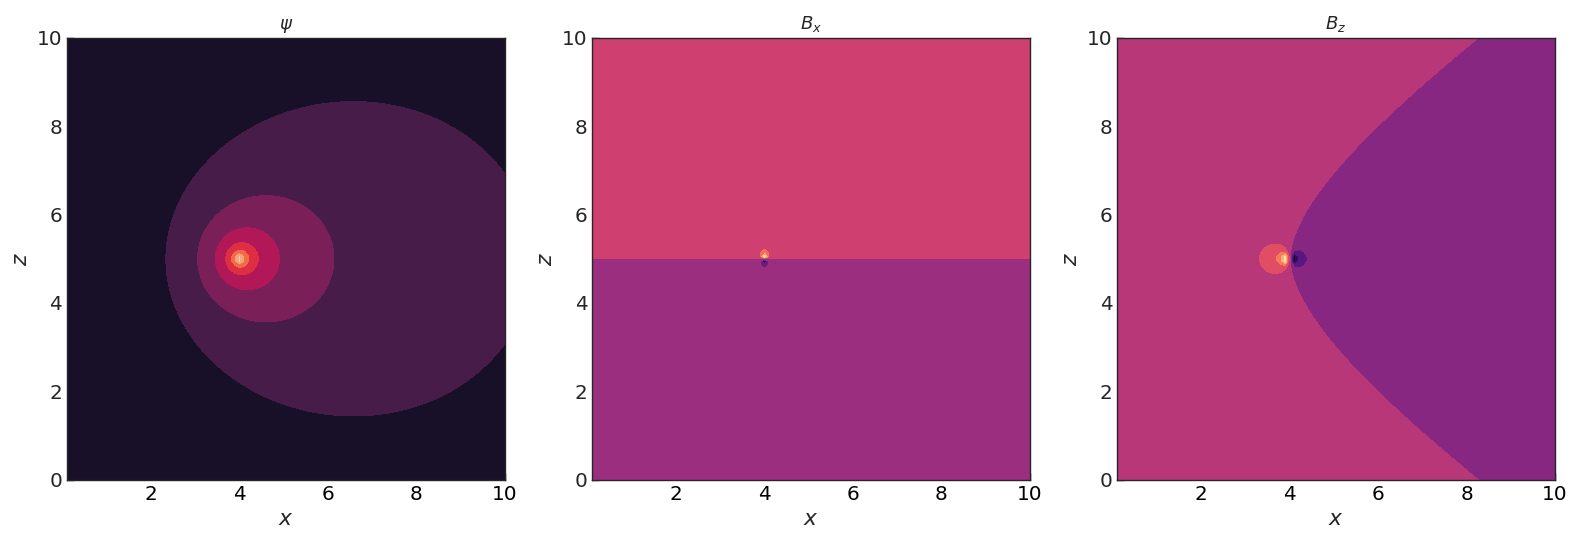
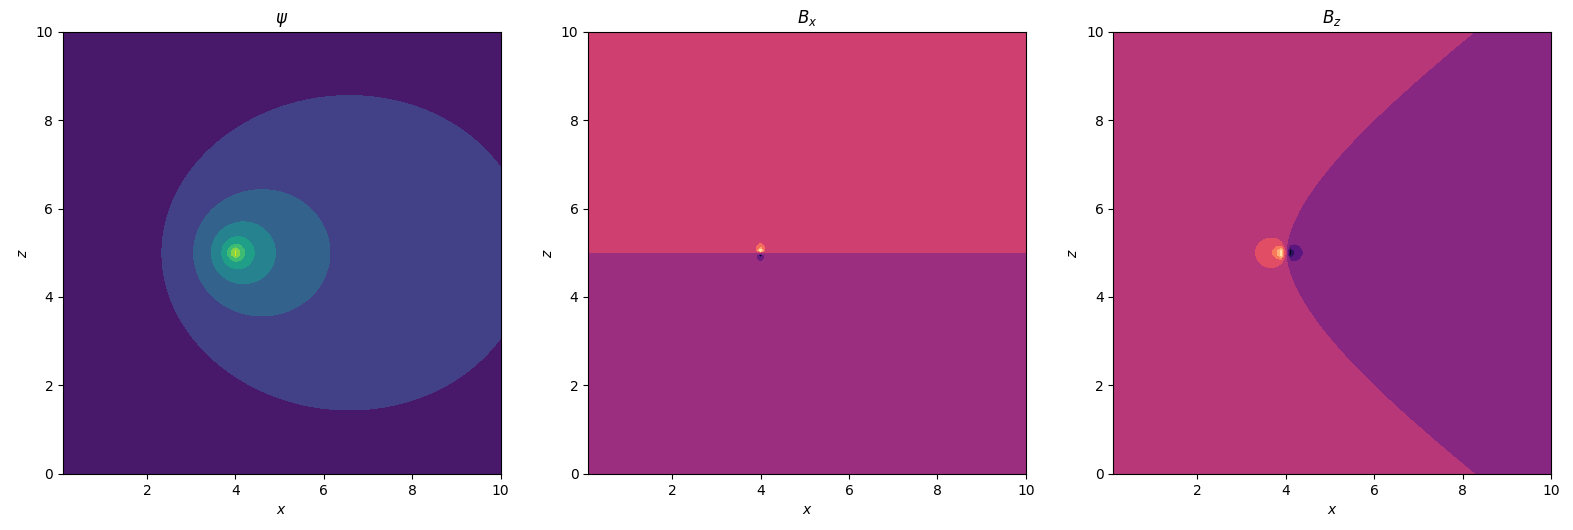
more documentation

diff --git a/documentation/bluemira/source/magnetostatics/doc_semianalytic.py b/documentation/bluemira/source/magnetostatics/doc_semianalytic.py
@@ -1,0 +1,14 @@
+import numpy as np
+from bluemira.magnetostatics.semianalytic_2d import (semianalytic_psi,
+                                                     semianalytic_Bx,
+                                                     semianalytic_Bz)
+
+coil_x, coil_z = 4, 5
+coil_dx, coil_dz = 1, 2
+x = np.linspace(0.1, 10, 100)
+z = np.linspace(0, 10, 100)
+xx, zz = np.meshgrid(x, z)
+
+psi = semianalytic_psi(coil_x, coil_z, xx, zz, coil_dx, coil_dz)
+Bx = semianalytic_Bx(coil_x, coil_z, xx, zz, coil_dx, coil_dz)
+Bz = semianalytic_Bz(coil_x, coil_z, xx, zz, coil_dx, coil_dz)

diff --git a/documentation/bluemira/source/magnetostatics/doc_greens.py b/documentation/bluemira/source/magnetostatics/doc_greens.py
@@ -1,8 +1,7 @@
 import numpy as np
 from bluemira.magnetostatics.greens import greens_psi, greens_Bx, greens_Bz
 
-coil_x = 4
-coil_z = 5
+coil_x, coil_z = 4, 5
 x = np.linspace(0.1, 10, 100)
 z = np.linspace(0, 10, 100)
 xx, zz = np.meshgrid(x, z)

diff --git a/documentation/bluemira/source/magnetostatics/magnetostatics.rst b/documentation/bluemira/source/magnetostatics/magnetostatics.rst
@@ -37,6 +37,14 @@ Biot-Savart law is used, as developed by [Zhang_2012]_. Numerical integration is
 one dimension, and some singularities in the equations are resolved numerically and
 analytically.
 
+.. literalinclude:: doc_semianalytic.py
+    :language: python
+
+.. figure:: pic_semianalytic.png
+    :name: fig:Semianalytic
+
+
+
 .. Hint::
     The above semi-analytical functions are best used for points inside or near the
     current source. If you favour speed over accuracy, for points further away from the
